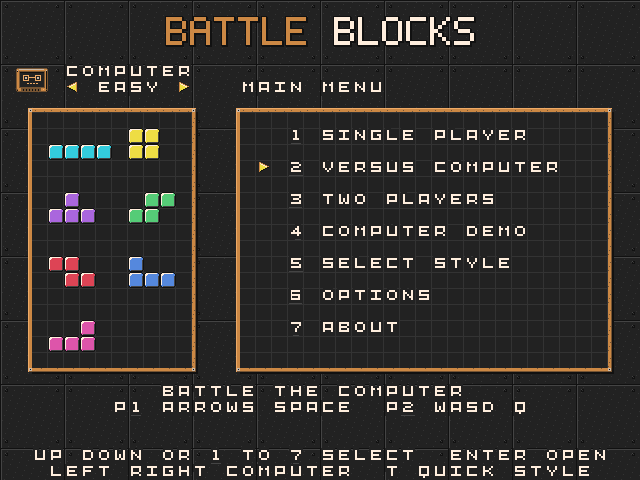
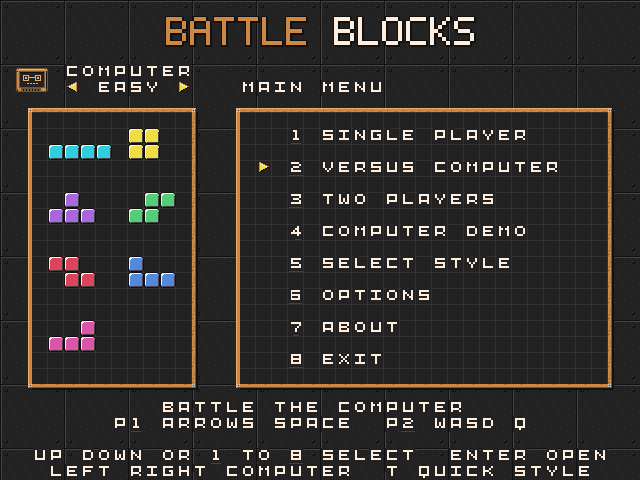
Adding exit functionality

Changed region(s): [[0.0312, 0.7188, 0.9688, 0.9062], [0.1875, 0.8438, 0.2188, 0.9062], [0.4375, 0.9375, 0.4688, 0.9688]]

diff --git a/src/menu.c b/src/menu.c
@@ -37,7 +37,7 @@
 #define MENU_STYLE 4
 #define MENU_OPTIONS 5
 #define MENU_ABOUT 6
-#define MENU_LAST MENU_ABOUT
+#define MENU_LAST MENU_EXIT
 #define MENU_TEXT_X 18
 #define MENU_CURSOR_X 16
 #define MENU_CPU_X 1
@@ -123,13 +123,13 @@ static void menu_description(uint8_t mode) {
         "CLEAR LINES  BEAT YOUR SCORE", "BATTLE THE COMPUTER",
         "LOCAL TWO PLAYER BATTLE", "COMPUTER VERSUS COMPUTER",
         "PREVIEW FIVE VISUAL STYLES", "MUSIC AND SOUND EFFECTS",
-        "VERSION  CREDITS  SYSTEM DETAILS"
+        "VERSION  CREDITS  SYSTEM DETAILS", "RETURN TO THE BASIC PROMPT"
     };
-    menu_settext(2, 24, "                                    ");
     menu_settext(2, 25, "                                    ");
-    menu_centertext(24, descriptions[mode]);
-    if(mode < GAME_MODE_DEMO) menu_centertext(25, "P1 ARROWS SPACE  P2 WASD Q");
-    else if(mode == MENU_STYLE) menu_centertext(25, "ENTER TO CHANGE STYLE");
+    menu_settext(2, 26, "                                    ");
+    menu_centertext(25, descriptions[mode]);
+    if(mode < GAME_MODE_DEMO) menu_centertext(26, "P1 ARROWS SPACE  P2 WASD Q");
+    else if(mode == MENU_STYLE) menu_centertext(26, "ENTER TO CHANGE STYLE");
 }
 
 /**
@@ -335,7 +335,7 @@ static void menu_draw(uint8_t selected) {
     uint8_t i;
     static const char* const labels[] = {
         "1 SINGLE PLAYER", "2 VERSUS COMPUTER", "3 TWO PLAYERS",
-        "4 COMPUTER DEMO", "5 SELECT STYLE", "6 OPTIONS", "7 ABOUT"
+        "4 COMPUTER DEMO", "5 SELECT STYLE", "6 OPTIONS", "7 ABOUT", "8 EXIT"
     };
     menu_clear();
     screen_draw_menu_title();
@@ -343,12 +343,12 @@ static void menu_draw(uint8_t selected) {
     menu_settext(MENU_CPU_X + 3, MENU_CPU_Y, "COMPUTER");
     menu_difficulty();
     menu_centertext(5, "MAIN MENU");
-    screen_create_lined_rectangle(2, 7, 10, 16);
-    screen_create_lined_rectangle(15, 7, 23, 16);
-    for(i = 0; i < 7; ++i) menu_settext(MENU_TEXT_X, 8 + i * 2, labels[i]);
+    screen_create_lined_rectangle(2, 7, 10, 17);
+    screen_create_lined_rectangle(15, 7, 23, 17);
+    for(i = 0; i <= MENU_LAST; ++i) menu_settext(MENU_TEXT_X, 8 + i * 2, labels[i]);
     /* Two columns, with two empty rows between successive pairs. */
     for(i = 0; i < 7; ++i) menu_piece(3 + (i % 2) * 5, 8 + (i / 2) * 4, i);
-    menu_centertext(28, "UP DOWN OR 1 TO 7 SELECT  ENTER OPEN");
+    menu_centertext(28, "UP DOWN OR 1 TO 8 SELECT  ENTER OPEN");
     menu_centertext(29, "LEFT RIGHT COMPUTER  T QUICK STYLE");
     screen_set_tile_layer1(MENU_CURSOR_X, 8 + selected * 2, TILE_SELECT_CURSOR);
     menu_description(selected);
@@ -389,6 +389,7 @@ uint8_t menu_select(uint8_t initial_mode) {
             case '5':
             case '6':
             case '7':
+            case '8':
                 selected = key - '1';
                 break;
             case KEYCODE_LEFT:
@@ -403,7 +404,11 @@ uint8_t menu_select(uint8_t initial_mode) {
                 break;
             case KEYCODE_RETURN:
             case KEYCODE_SPACE:
-                if(selected == MENU_STYLE || selected == MENU_OPTIONS || selected == MENU_ABOUT) {
+                if(selected == MENU_EXIT) {
+                    sound_menu_effect(SFX_MENU_SELECT);
+                    if(menu_confirm("EXIT TO BASIC")) return MENU_EXIT;
+                }
+                else if(selected == MENU_STYLE || selected == MENU_OPTIONS || selected == MENU_ABOUT) {
                     sound_menu_effect(SFX_MENU_SELECT);
                     if(selected == MENU_STYLE) menu_styles();
                     else if(selected == MENU_OPTIONS) menu_options();

diff --git a/tests/test_controller_emulator.py b/tests/test_controller_emulator.py
@@ -16,18 +16,19 @@ class ControllerTests(unittest.TestCase):
 
     def install_pads(self):
         # Raw bytes returned in A/X/Y for each physical port.
-        self.emu.write_memory(0x600, bytes([255,255,255,255,0,0]))
+        self.emu.write_memory(0x7F0, bytes([255,255,255,255,0,0]))
         # index = port - 1; preserve A while loading X and presence in Y.
-        stub = bytes.fromhex('3a aa bd0006 48 bd0406 a8 bd0206 aa 68 60')
-        self.emu.write_memory(0x500, stub)
+        # The stub lives in the top of golden RAM, which the game leaves free.
+        stub = bytes.fromhex('3a aa bdf007 48 bdf407 a8 bdf207 aa 68 60')
+        self.emu.write_memory(0x700, stub)
         address = self.symbols['_input_controller'] + 3
         self.assertEqual(self.emu.read_memory(address,3), bytes.fromhex('2056ff'))
-        self.emu.write_memory(address, bytes.fromhex('200005'))
+        self.emu.write_memory(address, bytes.fromhex('200007'))
 
     def pad(self, port, low=0, high=0, frames=3, present=True, settle=True):
-        self.emu.write_memory(0x600+port-1, bytes([255 ^ low]))
-        self.emu.write_memory(0x602+port-1, bytes([255 ^ high]))
-        self.emu.write_memory(0x604+port-1, bytes([0 if present else 255]))
+        self.emu.write_memory(0x7F0+port-1, bytes([255 ^ low]))
+        self.emu.write_memory(0x7F2+port-1, bytes([255 ^ high]))
+        self.emu.write_memory(0x7F4+port-1, bytes([0 if present else 255]))
         self.emu.advance(frames)
         if not settle: return
         deadline = menu.time.monotonic()+30
@@ -43,8 +44,8 @@ class ControllerTests(unittest.TestCase):
     def test_both_controllers_navigate_apply_and_cancel_menus(self):
         self.install_pads()
         self.assertEqual(self.tile(16,8),34)
-        self.tap(2,low=8)  # Up wraps from solo to About.
-        self.assertEqual(self.tile(16,20),34)
+        self.tap(2,low=8)  # Up wraps from solo to Exit.
+        self.assertEqual(self.tile(16,22),34)
         self.tap(2,low=4)
         self.assertEqual(self.tile(16,8),34)
         self.tap(1,low=4)
@@ -146,7 +147,7 @@ class ControllerTests(unittest.TestCase):
 
     def test_simultaneous_start_press_pauses_once(self):
         self.install_pads(); self.start(3)
-        self.emu.write_memory(0x600, bytes([255 ^ 16, 255 ^ 16]))
+        self.emu.write_memory(0x7F0, bytes([255 ^ 16, 255 ^ 16]))
         self.emu.advance(30)
         self.assertEqual(self.read('_game_paused'), bytes([1]))
         self.pad(1); self.pad(2)

diff --git a/tests/test_menu_emulator.py b/tests/test_menu_emulator.py
@@ -94,7 +94,7 @@ class MenuTests(unittest.TestCase):
         return self.emu.read_memory(0x1A000 + (y * 64 + x) * 2, space="vram")[0]
 
     def assert_cursor(self, row):
-        for option in (8, 10, 12, 14, 16, 18, 20):
+        for option in (8, 10, 12, 14, 16, 18, 20, 22):
             self.assertEqual(self.tile(16, option), 34 if option == row else 0)
 
     def assert_menu_text(self, row, text, x=None):
@@ -133,7 +133,7 @@ class MenuTests(unittest.TestCase):
                 self.press('Return')
                 self.assert_background_box(theme, box)
                 self.press('Escape')
-                self.assert_background_box(theme, (2, 7, 10, 16), (15, 7, 23, 16))
+                self.assert_background_box(theme, (2, 7, 10, 17), (15, 7, 23, 17))
 
     def test_menu_title_survives_theme_submenu_and_game_transitions(self):
         for theme in (0, 1):
@@ -293,10 +293,10 @@ class MenuTests(unittest.TestCase):
                 for x in range(2, 12):
                     self.assertEqual(self.tile(x, y), 0)
             # Keep a free column inside both panel edges and between columns.
-            for y in range(7, 23):
+            for y in range(7, 24):
                 for x in (2, 7, 11):
                     self.assertEqual(self.tile(x, y), 0)
-            self.assert_background_box(theme, (2, 7, 10, 16), (15, 7, 23, 16))
+            self.assert_background_box(theme, (2, 7, 10, 17), (15, 7, 23, 17))
 
     def test_grid_lines_are_visible_in_both_directions_in_all_styles(self):
         with TemporaryDirectory(prefix='battleblocks-grid-') as directory:
@@ -450,8 +450,8 @@ class MenuTests(unittest.TestCase):
         self.assert_cursor(10)
         self.press("Up")
         self.assert_cursor(8)
-        self.press("Up")
-        self.assert_cursor(20)
+        self.press("Up")  # Wraps to Exit.
+        self.assert_cursor(22)
         self.press("Down")
         self.assert_cursor(8)
         self.press("2")
@@ -460,7 +460,7 @@ class MenuTests(unittest.TestCase):
         self.assert_cursor(12)
         self.press("4")
         self.assert_cursor(14)
-        self.assertEqual(self.tile(15, 23), 12)
+        self.assertEqual(self.tile(15, 24), 12)
 
     def test_style_menu_previews_applies_and_cancels_without_starting_game(self):
         arcade = self.emu.read_memory(0x1FA00, 512, space='vram')

diff --git a/tests/test_quit_emulator.py b/tests/test_quit_emulator.py
@@ -10,6 +10,7 @@ class QuitTests(unittest.TestCase):
     read = menu.MenuTests.read
     start = menu.MenuTests.start
     tile = menu.MenuTests.tile
+    assert_cursor = menu.MenuTests.assert_cursor
     assert_menu_text = menu.MenuTests.assert_menu_text
     install_pads = controller.ControllerTests.install_pads
     pad = controller.ControllerTests.pad
@@ -81,6 +82,34 @@ class QuitTests(unittest.TestCase):
         self.press('Escape'); self.press('Y')
         self.assertEqual(self.read('_game_paused'), bytes([0]))
         self.assertEqual(self.tile(16, 12), 34)
+
+    def test_exit_item_confirms_then_returns_to_a_clean_basic_prompt(self):
+        self.press('8')
+        self.assert_cursor(22)
+        self.assert_menu_text(25, 'RETURN TO THE BASIC PROMPT')
+        self.assert_menu_text(28, 'UP DOWN OR 1 TO 8 SELECT  ENTER OPEN')
+        maps = self.maps()
+        for cancel in ('Escape', 'N', 'Return'):  # Return confirms the default No.
+            self.press('Return')
+            self.assertEqual(self.read('_game_quit_open'), bytes([1]))
+            self.assert_menu_text(13, 'EXIT TO BASIC')
+            self.assert_menu_text(16, '  YES   > NO')
+            self.press(cancel)
+            self.assertEqual(self.read('_game_quit_open'), bytes([0]))
+            self.assertEqual(self.maps(), maps)
+        self.press('Return'); self.press('Left'); self.press('Return')
+        self.emu.advance(60)
+        # The KERNAL owns the IRQ again and every PSG voice is silent.
+        self.assertGreaterEqual(int.from_bytes(self.emu.read_memory(0x314, 2), 'little'), 0xC000)
+        psg = self.emu.read_memory(0x1F9C0, 64, space='vram')
+        self.assertEqual([psg[i] & 0x3F for i in range(2, 64, 4)], [0] * 16)
+        # Default text palette: black, white, red, cyan.
+        self.assertEqual(self.emu.read_memory(0x1FA00, 8, space='vram'), bytes.fromhex('0000ff0f0008fe0a'))
+        def row(y):
+            cells = self.emu.read_memory(0x1B000 + y * 256, 12, space='vram')
+            return bytes(cells[::2])
+        ready = bytes([0x12, 0x05, 0x01, 0x04, 0x19, 0x2E])  # READY. in screen codes
+        self.assertEqual(row(1)[:6], ready)
 
 
 if __name__ == '__main__':

diff --git a/tests/test_distribution.py b/tests/test_distribution.py
@@ -44,6 +44,7 @@ class DistributionTests(unittest.TestCase):
                         game.emu.advance(30)
                         game.press('Escape')
                         game.press('T')
+                    self.assert_exits_to_basic(game)
                 finally:
                     game.doCleanups()
 
@@ -72,8 +73,20 @@ class DistributionTests(unittest.TestCase):
                     game.assert_cursor(8)
                     game.start(1)
                     self.assertEqual(game.read('_game_mode'), bytes([0]))
+                    game.press('Escape', confirm_quit=True)
+                    self.assert_exits_to_basic(game)
                 finally:
                     game.doCleanups()
+
+    def assert_exits_to_basic(self, game):
+        # A BASIC cold start would load AUTOBOOT.X16 from the current directory
+        # again, so Exit must return to READY. without one.
+        game.press('8'); game.press('Return'); game.press('Left')
+        game.press('Return', confirm_quit=False)
+        game.emu.advance(300)
+        self.assertEqual(game.emu.read_memory(0x9F29)[0] & 0x7F, 0x21)
+        self.assertEqual(game.emu.read_memory(0x1B000 + 256, 12, space='vram')[::2],
+                         bytes([0x12, 0x05, 0x01, 0x04, 0x19, 0x2E]))
 
     def test_graphics_bundle_preserves_every_asset_and_index(self):
         data, entries = graphics_bundle()

diff --git a/src/menu.h b/src/menu.h
@@ -48,15 +48,24 @@ void menu_settext(uint8_t x, uint8_t y, const char* str);
  */
 void menu_centertext(uint8_t y, const char* str);
 
-/* Confirm leaving a match, preserving its display and time on cancellation. */
+/* Main menu entry that leaves the game; menu_select returns it after Yes. */
+#define MENU_EXIT 7
+
+/*
+ * Ask a yes/no question in a modal box with No preselected, preserving the
+ * display and match time on cancellation. Return one for Yes.
+ */
+uint8_t __fastcall__ menu_confirm(const char* title);
+
+/* Confirm leaving a match. */
 uint8_t menu_quit(void);
 
 /**
  * @brief Run the main menu and return the selected game mode
  *
- * @param initial_mode Zero-based initial menu selection, 0..6
+ * @param initial_mode Zero-based initial menu selection, 0..7
  *
- * @return Selected GAME_MODE_* value
+ * @return Selected GAME_MODE_* value, or MENU_EXIT
  */
 uint8_t menu_select(uint8_t initial_mode);
 

diff --git a/src/quit.c b/src/quit.c
@@ -7,12 +7,16 @@ extern void __fastcall__ screen_modal_copy(uint8_t restore);
 uint8_t game_quit_open;
 
 uint8_t menu_quit(void) {
+    return menu_confirm("QUIT MATCH");
+}
+
+uint8_t __fastcall__ menu_confirm(const char* title) {
     uint8_t key, quit = 0;
     input_freeze_begin();
     game_quit_open = 1;
     screen_modal_copy(0);
     screen_create_lined_rectangle(7, 11, 26, 9);
-    menu_centertext(13, "QUIT MATCH");
+    menu_centertext(13, title);
     menu_centertext(18, "ARROWS ENTER  ESC CANCEL");
     while(1) {
         /* Reserve both cursor slots so neither label moves on selection. */

diff --git a/src/main.c b/src/main.c
@@ -224,8 +224,15 @@ void main(void) {
     while(1) {
         show_menu();
         selected = menu_select(mode);
+        if(selected == MENU_EXIT) break;
         mode = selected;
         show_game(mode);
         if(!play_game()) show_result();
     }
+    sound_shutdown();
+    /*
+     * Restore the KERNAL text screen, font and palette, then return to BASIC.
+     * A cold start through enter_basic would run AUTOBOOT.X16 again.
+     */
+    asm("jsr $FF81");
 }

diff --git a/src/sound.h b/src/sound.h
@@ -99,6 +99,11 @@ void sound_player_motion(uint8_t player, uint16_t p1, uint16_t p2);
  */
 void sound_clear(uint8_t player, uint8_t count);
 
+/**
+ * @brief Stop all music and effects and restore the KERNAL's IRQ handler
+ */
+void sound_shutdown(void);
+
 #define PLAYER_SOUND(gs, name) sound_player_effect((gs)->player, name##_P1, name##_P2)
 #define MOTION_SOUND(gs, name) sound_player_motion((gs)->player, name##_P1, name##_P2)
 

diff --git a/src/ai.c b/src/ai.c
@@ -27,8 +27,11 @@ uint8_t ai_beam = 4;
  * the next piece for the four best candidates using board snapshots.
  */
 
+/* Golden RAM is not zeroed at startup; ai_prepare sets every field it reads. */
+#pragma bss-name (push, "GOLDENBSS")
 struct PlayFieldEvaluation pfeval;
 struct PlayFieldEvaluation pfeval_player1;
+#pragma bss-name (pop)
 
 static const uint16_t column_bits[10] = {1, 2, 4, 8, 16, 32, 64, 128, 256, 512};
 

diff --git a/CHANGELOG.md b/CHANGELOG.md
@@ -14,6 +14,11 @@ working tree. Versions are listed newest first.
   moves, 2 seconds before a hard drop), and **Expert**, which never waits and
   checks the next piece for only its two best placements, placing pieces about
   30% faster than Hard. Easy remains the default.
+- **8 Exit** in the main menu returns to the BASIC prompt after a
+  confirmation. It stops all audio, restores the KERNAL's interrupt handler
+  and text screen, and returns from `main()`. A BASIC cold start is avoided
+  because it loads `AUTOBOOT.X16` from the current directory again, also when
+  the game was started with `BOOT` from a subfolder.
 
 ### Changed
 
@@ -21,7 +26,11 @@ working tree. Versions are listed newest first.
   difficulty on the right, instead of two computers at the same level.
 - The gameplay GIFs show a 60-second Hard-versus-Easy battle.
 - Easy now shows a left arrow in the main menu, since Novice sits below it.
-  Screenshots are updated to match.
+  Both main-menu panels are one row taller to fit the Exit entry, and the
+  description below them moved down one row. Screenshots are updated to match.
+- The computer's search state lives in golden RAM (`$0400`-`$06FF`), freeing
+  about 730 bytes of main memory. The controller tests' joystick stub moved
+  to `$0700`-`$07FF`, which the game leaves free.
 - The browser check (`tests/check_site.cjs`) is optional: it skips when
   Playwright is missing, and CI runs it only when the Pages workflow is
   started manually with **browser-check** enabled.

diff --git a/README.md b/README.md
@@ -111,6 +111,10 @@ quit-confirmation dialog with **No** selected. Use the arrow keys and
 Enter/Space to choose, **Y/N** for a direct answer, or **Escape** to cancel.
 The dialog freezes the match and restores the previous pause state on cancel.
 
+**8 Exit** in the main menu asks for the same confirmation and then returns to
+the BASIC `READY.` prompt with the normal text screen, colors, and font. To
+play again, `LOAD` the game; a second `RUN` is not supported.
+
 The computer's difficulty is shown above the pieces in the main menu. Press
 Left/Right (or A/D) there to choose **Novice**, **Easy**, **Normal**, **Hard**,
 or **Expert**. Easy is the default; the setting lasts for the session and applies to the computer
